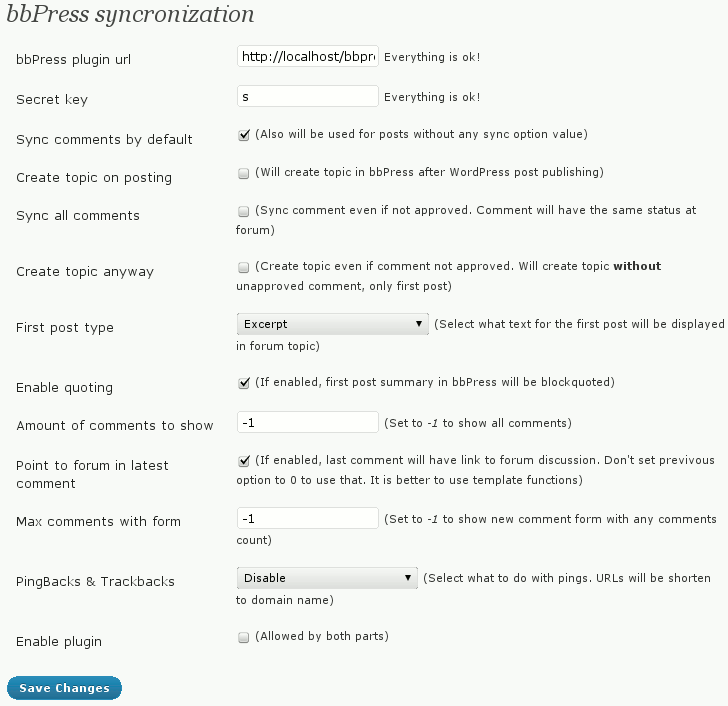
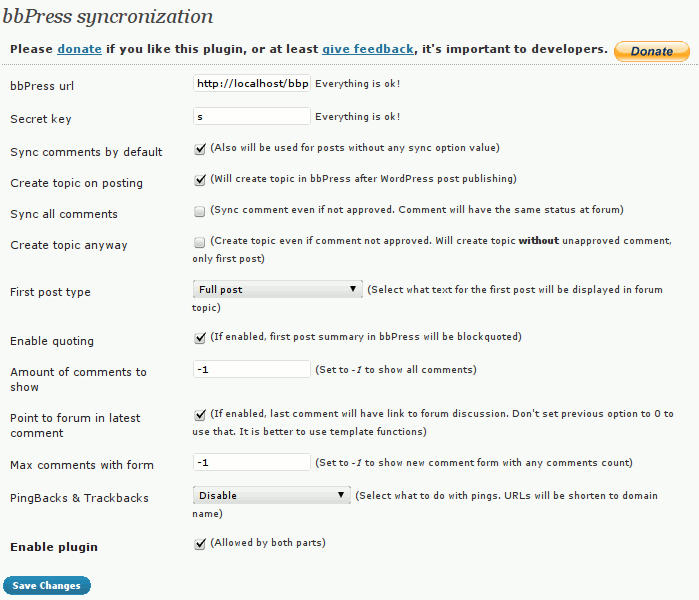
updated code to latest revision
git-svn-id: https://plugins.svn.wordpress.org/wordpress-bbpress-syncronization/trunk@156429 b8457f37-d9ea-0310-8a92-e5e31aec5664

diff --git a/wpbb-sync.php b/wpbb-sync.php
@@ -3,7 +3,7 @@
 Plugin Name: WordPress-bbPress syncronization
 Plugin URI: http://bobrik.name/code/wordpress/wordpress-bbpress-syncronization/
 Description: Sync your WordPress comments to bbPress forum and back.
-Version: 0.7.8
+Version: 0.8.0
 Author: Ivan Babrou <ibobrik@gmail.com>
 Author URI: http://bobrik.name/
 
@@ -26,7 +26,7 @@ Boston, MA 02111-1307, USA.
 */
 
 // for version checking
-$wpbb_version = 78;
+$wpbb_version = 80;
 $min_version = 78;
 
 // for mode checking
@@ -630,6 +630,12 @@ function wpbb_check_settings()
 	return $data;
 }
 
+function wpbb_is_deep_integrated()
+{
+	// do we have another plugin part included?
+	return function_exists('bbwp_listener');
+}
+
 if (isset($_REQUEST['wpbb-listener']))
 {
 	// define redirection if request have wpbb-listener key
@@ -823,7 +829,7 @@ function wpbb_config()
 ?>
 <div class="wrap">
 	<h2><?php _e('bbPress syncronization', 'wpbb-sync'); ?></h2>
-	<div style="vert-align:center;margin:4px">Please donate if you like this plugin: <a href="https://www.paypal.com/cgi-bin/webscr?cmd=_donations&business=ibobrik%40gmail%2ecom&lc=US&item_name=WordPress%2dbbPress%20syncronization%20plugin&currency_code=USD&bn=PP%2dDonationsBF%3abtn_donate_LG%2egif%3aNonHostedGuest"><img src="https://www.paypal.com/en_US/i/btn/btn_donate_LG.gif" alt="Donate!" /></a></div>
+	<div style="padding:10px;border-bottom:1px dotted #aaa"><span style="margin:10px auto;font-weight:bold;">Please <a href="https://www.paypal.com/cgi-bin/webscr?cmd=_donations&business=ibobrik%40gmail%2ecom&lc=US&item_name=WordPress%2dbbPress%20syncronization%20plugin&currency_code=USD&bn=PP%2dDonationsBF%3abtn_donate_LG%2egif%3aNonHostedGuest">donate</a> if you like this plugin, or at least <a href="http://bobrik.name/code/wordpress/wordpress-bbpress-syncronization/">give feedback</a>, it's important to developers.</span> <a href="https://www.paypal.com/cgi-bin/webscr?cmd=_donations&business=ibobrik%40gmail%2ecom&lc=US&item_name=WordPress%2dbbPress%20syncronization%20plugin&currency_code=USD&bn=PP%2dDonationsBF%3abtn_donate_LG%2egif%3aNonHostedGuest" style="float:right;"><img src="https://www.paypal.com/en_US/i/btn/btn_donate_LG.gif" alt="Donate!" /></a></div>
 	<form name="form1" method="post" action="">
 	<input type="hidden" name="stage" value="process" />
 	<table width="100%" cellspacing="2" cellpadding="5" class="form-table">
@@ -1079,7 +1085,7 @@ function wpbb_footer()
 function wpbb_warning()
 {
 	if (get_option('wpbb_plugin_status') != 'enabled' && !isset($_POST['Submit']))
-		echo '<div class="updated fade"><p><strong>'.__('Synchronization with bbPress is not enabled.').'</strong> '.sprintf(__('You must <a href="%1$s">check options and enable plugin</a> to make it work.'), 'plugins.php?page=wpbb-config').'</p></div>';
+		echo '<div class="updated fade"><p><strong>'.__('Synchronization with bbPress is not enabled.', 'wpbb-sync').'</strong> '.sprintf(__('You must <a href="%1$s">check options and enable plugin</a> to make it work.', 'wpbb-sync'), 'plugins.php?page=wpbb-config').'</p></div>';
 }
 
 
